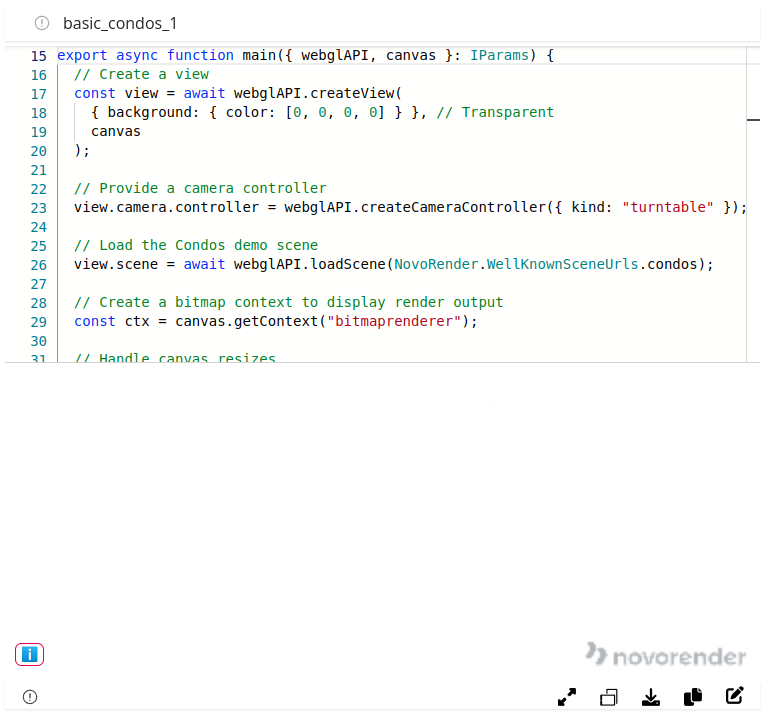
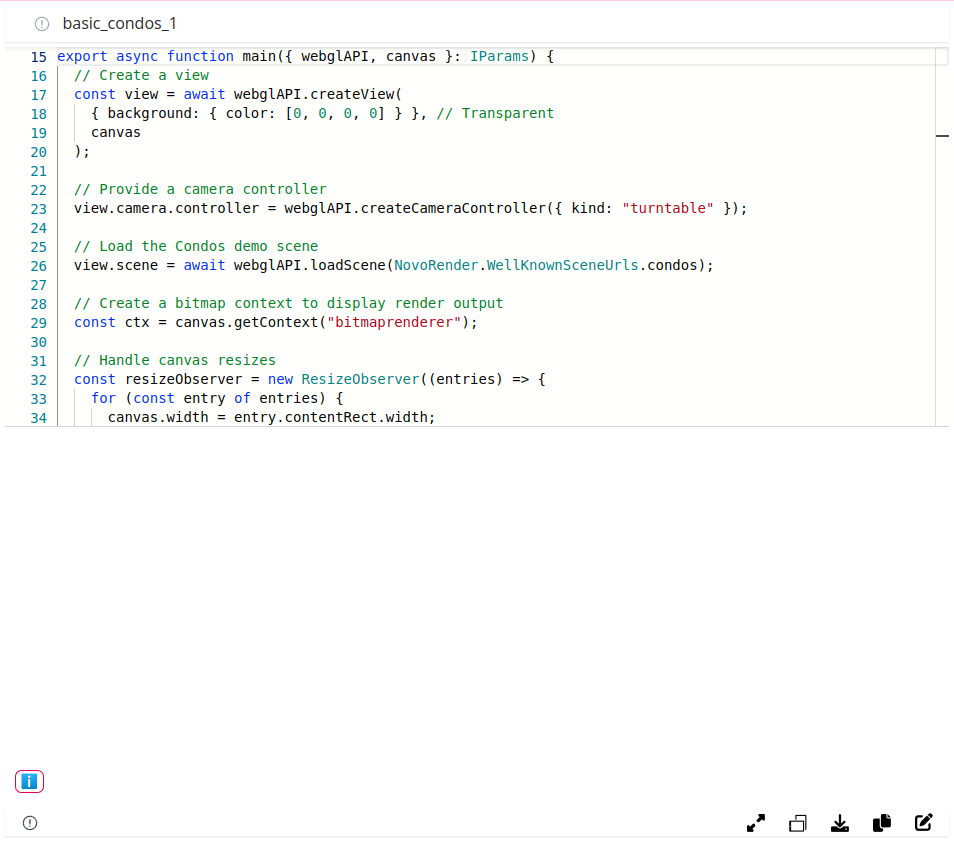
fix(playground): increased height a bit, fixed width

diff --git a/src/components/MonacoWrapper/index.tsx b/src/components/MonacoWrapper/index.tsx
@@ -94,8 +94,8 @@ export default function MonacoWrapper({ code, demoName, description, editorConfi
     const [measureApiInstance, setMeasureApiInstance] = useState<any>(); // Measure API
     const [splitPaneDirectionVertical, setSplitPaneDirectionVertical] = useState<boolean>(true); // Direction to split. If true then the panes will be stacked vertically, otherwise they will be stacked horizontally.
     const [force_rerender_allotment, set_force_rerender_allotment] = useState<boolean>(true); // allotment doesn't support dynamically changing pane positions so we must force re-render the component so it recalculates the size
-    const [editorHeight, setEditorHeight] = useState<number>(editorConfig.mode === 'inline' ? (innerHeight / 3) : (innerHeight / 2) - 68); // minus editor top-bar and footer height
-    const [rendererHeight, setRendererHeight] = useState<number>(editorConfig.mode === 'inline' ? (innerHeight / 3) : (innerHeight / 2) - 68);  // minus editor top-bar and footer height
+    const [editorHeight, setEditorHeight] = useState<number>(editorConfig.mode === 'inline' ? (((innerHeight * 80) / 100) / 2) : (innerHeight / 2) - 68); // minus editor top-bar and footer height
+    const [rendererHeight, setRendererHeight] = useState<number>(editorConfig.mode === 'inline' ? (((innerHeight * 80) / 100) / 2) : (innerHeight / 2) - 68);  // minus editor top-bar and footer height
     const [rendererPaneWidth, setRendererPaneWidth] = useState<number>();
     const [isDemoDescPopoverOpen, setIsDemoDescPopoverOpen] = useState<boolean>(false);
     const [isMessagesAndAlertPopoverOpen, setIsMessagesAndAlertPopoverOpen] = useState<boolean>(false);

diff --git a/src/components/PlaygroundComponent/index.tsx b/src/components/PlaygroundComponent/index.tsx
@@ -34,7 +34,7 @@ export default function PlaygroundComponent({ code, demoName, description, edito
                 () =>
                     <div>
                         {editorConfig &&
-                            <div style={editorConfig.mode === 'inline' ? { width: 769, border: '2px solid #d5275d33', padding: 5 } : { height: 'calc(100vh - 60px)', overflow: 'hidden', paddingTop: 2 }}>
+                            <div style={editorConfig.mode === 'inline' ? { border: '2px solid #d5275d33', padding: 5 } : { height: 'calc(100vh - 60px)', overflow: 'hidden', paddingTop: 2 }}>
                                 {editorConfig.clickToRun && (!isPlaygroundActive || (isPlaygroundActive && demoName !== runningPlaygroundId))
                                     ? <div style={{ position: 'relative' }}>
                                         <button onClick={runPlayground} className="cu-button">Click to run the demo</button>
